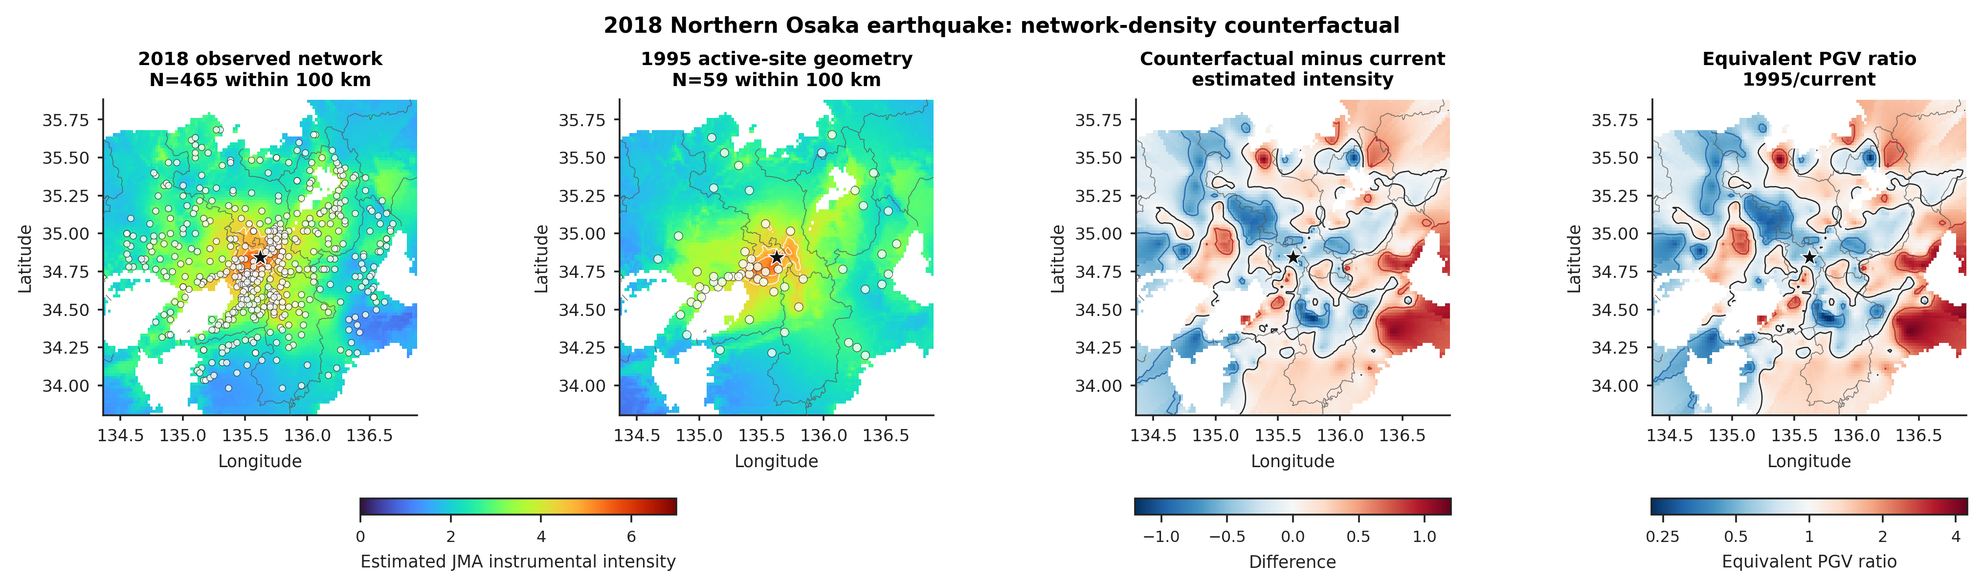
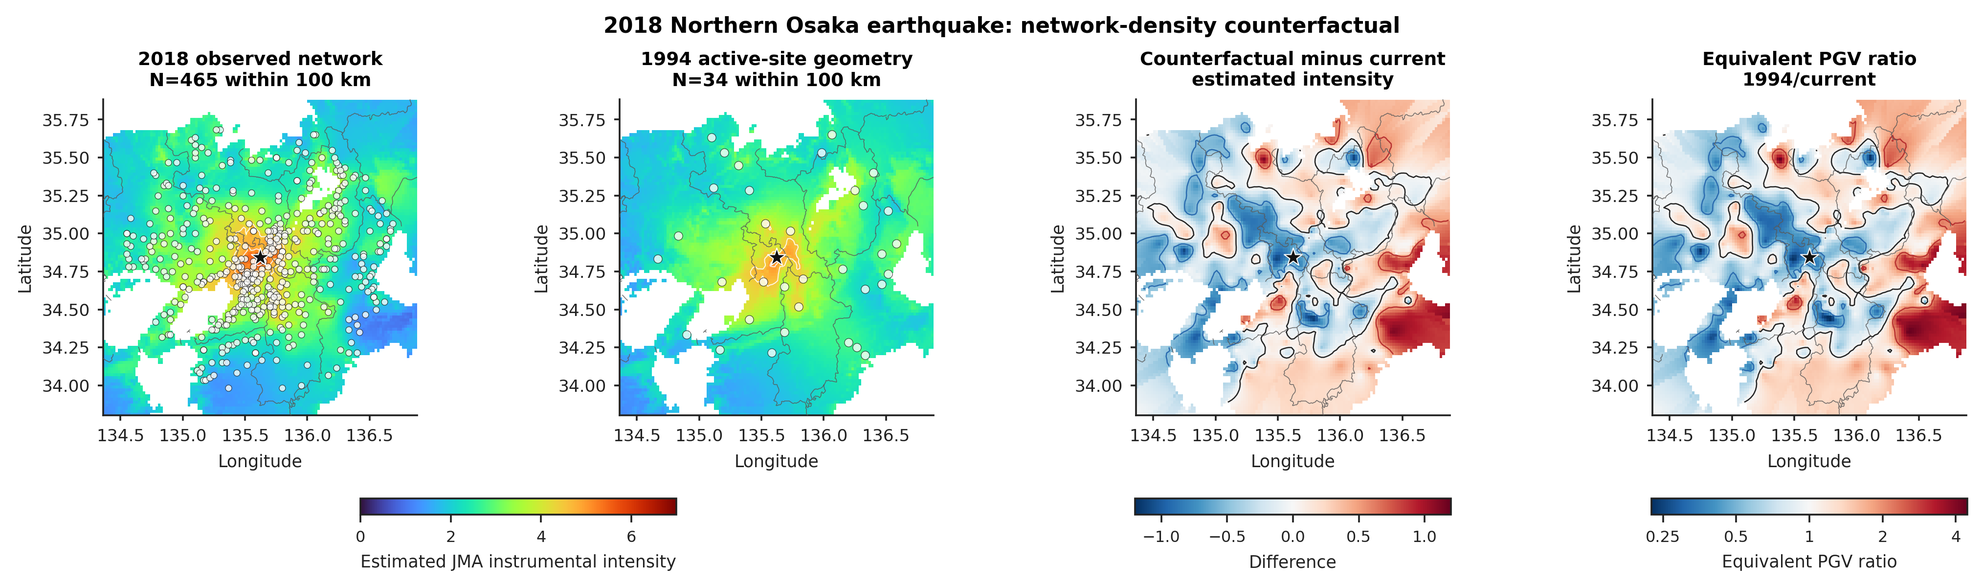
Use 1994 network for Osaka counterfactual

diff --git a/src/analyze_osaka_2018_network_counterfactual.py b/src/analyze_osaka_2018_network_counterfactual.py
@@ -44,8 +44,8 @@ INTENSITY_THRESHOLDS = [4.5, 5.0, 5.5, 6.0, 6.5]
 RADII_KM = [10.0, 20.0, 50.0, 100.0]
 SCENARIO_LABELS = {
     "current_2018_observed": "2018 observed network",
-    "counterfactual_1995_active": "1995 active-site geometry",
-    "strict_1995_code_overlap": "Strict 1995 code overlap",
+    "counterfactual_1994_active": "1994 active-site geometry",
+    "strict_1994_code_overlap": "Strict 1994 code overlap",
 }
 
 
@@ -64,7 +64,7 @@ def parse_args() -> argparse.Namespace:
     parser.add_argument("--manuscript-assets-ja", type=Path, default=DEFAULT_MANUSCRIPT_ASSETS_JA)
     parser.add_argument("--manuscript-assets-en", type=Path, default=DEFAULT_MANUSCRIPT_ASSETS_EN)
     parser.add_argument("--event-id", default="i2018_000842")
-    parser.add_argument("--counterfactual-year", type=int, default=1995)
+    parser.add_argument("--counterfactual-year", type=int, default=1994)
     parser.add_argument("--radius-km", type=float, default=100.0)
     parser.add_argument("--map-radius-km", type=float, default=115.0)
     parser.add_argument("--match-radius-km", type=float, default=10.0)
@@ -461,13 +461,13 @@ def plot_map_comparison(
     import matplotlib.pyplot as plt
 
     current = grids[("current_2018_observed", method)]
-    counter = grids[("counterfactual_1995_active", method)]
+    counter = grids[("counterfactual_1994_active", method)]
     merged = current[["longitude", "latitude", "estimated_surface_intensity"]].merge(
         counter[["longitude", "latitude", "estimated_surface_intensity"]],
         on=["longitude", "latitude"],
-        suffixes=("_current", "_1995"),
+        suffixes=("_current", "_1994"),
     )
-    merged["difference"] = merged["estimated_surface_intensity_1995"] - merged["estimated_surface_intensity_current"]
+    merged["difference"] = merged["estimated_surface_intensity_1994"] - merged["estimated_surface_intensity_current"]
     merged["log10_pgv_ratio"] = merged["difference"] / intensity_to_log10_pgv_coef
     lons, lats, current_arr = pivot_grid(current)
     _, _, counter_arr = pivot_grid(counter)
@@ -479,7 +479,7 @@ def plot_map_comparison(
     image0 = None
     for ax, arr, scenario, title in [
         (axes[0], current_arr, "current_2018_observed", "2018 observed network"),
-        (axes[1], counter_arr, "counterfactual_1995_active", "1995 active-site geometry"),
+        (axes[1], counter_arr, "counterfactual_1994_active", "1994 active-site geometry"),
     ]:
         image0 = ax.pcolormesh(lons, lats, arr, cmap=cmap_intensity, vmin=0.0, vmax=7.0, shading="nearest")
         ax.contour(lons, lats, arr, levels=levels, colors="white", linewidths=0.45, alpha=0.85)
@@ -515,7 +515,7 @@ def plot_map_comparison(
     )
     draw_boundaries(axes[3], region)
     axes[3].scatter([event.longitude], [event.latitude], marker="*", s=72, c="#111111", edgecolors="white", linewidths=0.45, zorder=6)
-    axes[3].set_title("Equivalent PGV ratio\n1995/current", fontsize=8.2)
+    axes[3].set_title("Equivalent PGV ratio\n1994/current", fontsize=8.2)
     setup_map_axis(axes[3], region, event)
     fig.colorbar(image0, ax=axes[:2], location="bottom", fraction=0.05, pad=0.08, label="Estimated JMA instrumental intensity")
     fig.colorbar(image2, ax=axes[2], location="bottom", fraction=0.05, pad=0.08, label="Difference")
@@ -524,7 +524,7 @@ def plot_map_comparison(
     ratio_bar.set_ticks(ratio_ticks)
     ratio_bar.set_ticklabels(["0.25", "0.5", "1", "2", "4"])
     fig.suptitle("2018 Northern Osaka earthquake: network-density counterfactual", fontsize=9.5, fontweight="bold")
-    out = png_dir / "osaka_2018_current_vs_1995_gmpe_kriging_maps.png"
+    out = png_dir / "osaka_2018_current_vs_1994_gmpe_kriging_maps.png"
     fig.savefig(out, bbox_inches="tight")
     plt.close(fig)
     return out
@@ -542,8 +542,8 @@ def plot_summary(
     fig, axes = plt.subplots(1, 3, figsize=(10.2, 3.05), constrained_layout=True)
     colors = {
         "current_2018_observed": "#1f77b4",
-        "counterfactual_1995_active": "#d62728",
-        "strict_1995_code_overlap": "#6b6b6b",
+        "counterfactual_1994_active": "#d62728",
+        "strict_1994_code_overlap": "#6b6b6b",
     }
     for _, row in station_summary.iterrows():
         scenario = row["scenario"]
@@ -557,7 +557,7 @@ def plot_summary(
     axes[0].set_title("Network support")
 
     val = validation[(validation["method"] == method) & (validation["validation_subset"].isin(["all_I>=1", "I>=5.0", "I>=5.5"]))]
-    scenarios = ["current_2018_observed", "counterfactual_1995_active", "strict_1995_code_overlap"]
+    scenarios = ["current_2018_observed", "counterfactual_1994_active", "strict_1994_code_overlap"]
     x = np.arange(len(scenarios))
     width = 0.24
     for offset, subset in zip([-width, 0.0, width], ["all_I>=1", "I>=5.0", "I>=5.5"]):
@@ -567,7 +567,7 @@ def plot_summary(
             values.append(float(hit["class_accuracy"].iloc[0]) if not hit.empty else np.nan)
         axes[1].bar(x + offset, values, width=width, label=subset)
     axes[1].set_xticks(x)
-    axes[1].set_xticklabels(["2018", "1995 geom.", "strict"], rotation=0)
+    axes[1].set_xticklabels(["2018", "1994 geom.", "strict"], rotation=0)
     axes[1].set_ylim(0.0, 1.0)
     axes[1].set_ylabel("Class accuracy", fontsize=7.6)
     axes[1].grid(True, axis="y", color="#dddddd", linewidth=0.55)
@@ -679,7 +679,7 @@ def write_report(
         "",
         "## 推計震度分布の比較",
         "",
-        f"![2018 current network versus 1995 counterfactual]({map_rel})",
+        f"![2018 current network versus 1994 counterfactual]({map_rel})",
         "",
         "震度は線形振幅ではないため，主比較には震度差ΔIを用いる。",
         "右端の等価PGV比は `I = 2.68 + 1.72 log10(PGV)` に基づく参考換算であり，震度値そのものの比ではない。",
@@ -736,10 +736,10 @@ def main() -> None:
     strict = build_strict_overlap(current, args)
     scenarios = {
         "current_2018_observed": current,
-        "counterfactual_1995_active": counterfactual,
+        "counterfactual_1994_active": counterfactual,
     }
     if len(strict) >= 3:
-        scenarios["strict_1995_code_overlap"] = strict
+        scenarios["strict_1994_code_overlap"] = strict
 
     region = region_from_radius(event, args.map_radius_km)
     ground_all = load_ground_grid(args.ground_grid)
@@ -789,7 +789,7 @@ def main() -> None:
             grids[(scenario, method)] = grid
             if not args.no_pygmt_maps and method == args.map_method and scenario in {
                 "current_2018_observed",
-                "counterfactual_1995_active",
+                "counterfactual_1994_active",
             }:
                 draw_map(
                     event,

diff --git a/paper/jma_intensity_network_interpolation_manuscript_ja.md b/paper/jma_intensity_network_interpolation_manuscript_ja.md
@@ -314,23 +314,23 @@ J-SHISのAVS30および地盤増幅率は，明瞭な地域構造を示す。低
 
 ### 4.9 2018年大阪府北部地震に対する観測網密度の反実仮想
 
-近年の内陸地震を1990年代の観測網で観測していた場合，推計震度分布がどの程度変わるかを評価するため，2018年6月18日の大阪府北部の地震（`i2018_000842`，M6.1，深さ13.0 km，最大計測震度5.6）をケーススタディとした。現行網シナリオでは震央100 km以内の2018年実観測465点を用いた。1990年代相当シナリオでは，1995年末に稼働していた観測点位置のうち震央100 km以内の59点へ，2018年実観測値の最近傍値を10 km以内で割り当てた。この反実仮想は観測点密度と幾何の効果を評価する再サンプリングであり，当時の個別観測点の設置条件や機器応答を完全に再現するものではない。さらに，1995年稼働コードが2018年実観測にも現れる21点のみを使う厳密重複シナリオを感度解析として示した。
+近年の内陸地震を1990年代の観測網で観測していた場合，推計震度分布がどの程度変わるかを評価するため，2018年6月18日の大阪府北部の地震（`i2018_000842`，M6.1，深さ13.0 km，最大計測震度5.6）をケーススタディとした。現行網シナリオでは震央100 km以内の2018年実観測465点を用いた。杉山・他（2020）の観測点配置比較に合わせ，1990年代相当シナリオでは，1994年末に稼働していた観測点位置のうち震央100 km以内にあり，2018年実観測値の最近傍値を10 km以内で割り当てられる34点を用いた。この反実仮想は観測点密度と幾何の効果を評価する再サンプリングであり，当時の個別観測点の設置条件や機器応答を完全に再現するものではない。さらに，1994年稼働コードが2018年実観測にも現れる17点のみを使う厳密重複シナリオを感度解析として示した。
 
 **表7. 2018年大阪府北部地震に対する観測網密度反実仮想の主要結果。**
 
 | シナリオ | 100 km内観測点数 | 密度（点/10,000 km2） | 10 km内点数 | 20 km内点数 | 最近接点間距離中央値 km | 全点階級一致率 | 震度5弱以上階級一致率 | 震度5強以上面積 km2 |
 | --- | --- | --- | --- | --- | --- | --- | --- | --- |
 | 2018年実観測網 | 465 | 148.014 | 11 | 54 | 3.560 | 0.877 | 0.643 | 60.626 |
-| 1995年稼働地点配置 | 59 | 18.780 | 2 | 5 | 9.320 | 0.572 | 0.357 | 4.041 |
-| 1995年コード厳密重複 | 21 | 6.685 | 1 | 1 | 19.939 | 0.551 | 0.143 | 8.083 |
+| 1994年稼働地点配置 | 34 | 10.823 | 0 | 0 | 15.323 | 0.544 | 0.036 | 0.000 |
+| 1994年コード厳密重複 | 17 | 5.411 | 0 | 0 | 20.070 | 0.538 | 0.036 | 0.000 |
 
-現行網は震源近傍と大阪平野から京都・奈良盆地にかけての震度勾配を多数の観測点で拘束する。一方，1995年稼働地点配置では震央20 km以内の拘束点が5点に減り，距離減衰式事前場と少数観測点の残差に推定結果が強く依存する。距離減衰式残差クリギングでは，2018年実観測網の最大推計震度は5.82，震度5弱以上面積は464.8 km2，震度5強以上面積は60.6 km2であった。1995年稼働地点配置では，最大推計震度は5.50，震度5弱以上面積は283.0 km2，震度5強以上面積は4.0 km2に縮小した。2018年実観測点で評価した階級一致率も，全点で0.877から0.572へ，震度5弱以上では0.643から0.357へ低下した。ただし，現行網シナリオの検証は訓練観測点を含むため上限的な再現精度である。この非対称性を考慮しても，1990年代相当の密度では強震域の局所勾配と震度5強以上の面的広がりを十分拘束できないことが明瞭である。震度は線形振幅ではないため，2つの推計震度分布の比較には震度値の比ではなく差分ΔIを主指標として用いた。参考として，`I = 2.68 + 1.72 log10(PGV)`に基づく等価PGV比も図示した。
+現行網は震源近傍と大阪平野から京都・奈良盆地にかけての震度勾配を多数の観測点で拘束する。一方，1994年稼働地点配置では震央20 km以内に利用可能な疑似観測点が存在せず，距離減衰式事前場と少数観測点の残差に推定結果が強く依存する。距離減衰式残差クリギングでは，2018年実観測網の最大推計震度は5.82，震度5弱以上面積は464.8 km2，震度5強以上面積は60.6 km2であった。1994年稼働地点配置では，最大推計震度は5.16，震度5弱以上面積は44.5 km2，震度5強以上面積は0.0 km2に縮小した。2018年実観測点で評価した階級一致率も，全点で0.877から0.544へ，震度5弱以上では0.643から0.036へ低下した。ただし，現行網シナリオの検証は訓練観測点を含むため上限的な再現精度である。この非対称性を考慮しても，1990年代前半の密度では強震域の局所勾配と震度5強以上の面的広がりを十分拘束できないことが明瞭である。震度は線形振幅ではないため，2つの推計震度分布の比較には震度値の比ではなく差分ΔIを主指標として用いた。参考として，`I = 2.68 + 1.72 log10(PGV)`に基づく等価PGV比も図示した。
 
-![図11. 2018年大阪府北部地震に対する現行網と1995年相当網の推計震度分布比較。](assets_ja/fig11_osaka_2018_counterfactual_maps.png)
+![図11. 2018年大阪府北部地震に対する現行網と1994年相当網の推計震度分布比較。](assets_ja/fig11_osaka_2018_counterfactual_maps.png)
 
 ![図12. 2018年大阪府北部地震に対する観測点支持，階級一致率，推計面積の比較。](assets_ja/fig12_osaka_2018_counterfactual_summary.png)
 
-*図11-12. 2018年大阪府北部地震の反実仮想解析。図11では，震度分布，震度差ΔI，および参考の等価PGV比を並べて示す。1995年相当網は観測点配置の効果を評価するための再サンプリングであり，当時の公式推計震度分布を再現したものではない。*
+*図11-12. 2018年大阪府北部地震の反実仮想解析。図11では，震度分布，震度差ΔI，および参考の等価PGV比を並べて示す。1994年相当網は観測点配置の効果を評価するための再サンプリングであり，当時の公式推計震度分布を再現したものではない。*
 
 ## 5. 議論
 
@@ -379,7 +379,7 @@ J-SHISのAVS30および地盤増幅率は，明瞭な地域構造を示す。低
 5. 完全一致率80%および90%は，試験した最大有効密度71.58点/10,000 km2の範囲では安定的に到達しなかった。現行手法では高密度側でも完全一致率が約70%で飽和するため，80%以上を目標にする場合は，観測点密度だけでなく震源・伝播・地盤モデルの改善が必要である。
 6. 70%到達密度では，IDW，平滑化クリギング，距離減衰式残差クリギングはいずれも，距離減衰式単独に対して完全一致率を約25ポイント改善し，RMSEを約半分に低減した。
 7. 高密度条件でも地域差は残る。したがって，震度分布の科学的解釈および観測網設計では，観測点密度，震源幾何，地盤増幅の空間変動を同時に扱う必要がある。
-8. 2018年大阪府北部地震を1995年末の観測点配置へ再サンプリングすると，震央100 km以内の観測点は465点から59点へ減少し，距離減衰式残差クリギングの全点階級一致率は0.877から0.572へ低下した。震度5強以上の推計面積は60.6 km2から4.0 km2へ縮小し，近年地震の面的震度分布を過去観測網にも同等品質で外挿することはできない。
+8. 2018年大阪府北部地震を1994年末の観測点配置へ再サンプリングすると，震央100 km以内の観測点は465点から34点へ減少し，震央20 km以内に利用可能な疑似観測点が存在しない。距離減衰式残差クリギングの全点階級一致率は0.877から0.544へ，震度5弱以上では0.643から0.036へ低下した。震度5強以上の推計面積は60.6 km2から0.0 km2へ縮小し，近年地震の面的震度分布を過去観測網にも同等品質で外挿することはできない。
 
 ## 謝辞
 

diff --git a/paper/jma_intensity_network_interpolation_manuscript.md b/paper/jma_intensity_network_interpolation_manuscript.md
@@ -304,23 +304,23 @@ The 2016 Kumamoto earthquake sequence illustrates the qualitative difference bet
 
 ### 4.9 Counterfactual network density for the 2018 northern Osaka earthquake
 
-To illustrate how a recent inland earthquake would have been mapped before the rapid network expansion, we analyzed the 18 June 2018 northern Osaka earthquake (`i2018_000842`; M6.1; depth 13.0 km; maximum measured intensity 5.6). The current-network scenario used 465 actual 2018 observations within 100 km of the epicenter. The pre-expansion counterfactual used the 59 station locations that were active at the end of 1995 within the same radius, assigning each location the nearest 2018 observed intensity within 10 km. This resampling isolates the effect of network density and geometry; it does not reproduce the site response, instrumentation, or operational processing of the historical stations. A stricter sensitivity case used only the 21 station codes that were active in 1995 and also appeared in the 2018 observations.
+To illustrate how a recent inland earthquake would have been mapped before the rapid network expansion, we analyzed the 18 June 2018 northern Osaka earthquake (`i2018_000842`; M6.1; depth 13.0 km; maximum measured intensity 5.6). The current-network scenario used 465 actual 2018 observations within 100 km of the epicenter. Following the historical comparison in Sugiyama et al. (2020), the pre-expansion counterfactual used the 34 station locations that were active at the end of 1994 within the same radius and could be assigned the nearest 2018 observed intensity within 10 km. This resampling isolates the effect of network density and geometry; it does not reproduce the site response, instrumentation, or operational processing of the historical stations. A stricter sensitivity case used only the 17 station codes that were active in 1994 and also appeared in the 2018 observations.
 
 **Table 7. Key results for the 2018 northern Osaka network-density counterfactual.**
 
 | Scenario | Stations within 100 km | Density (stations/10,000 km2) | Stations within 10 km | Stations within 20 km | Median station NN km | Exact class accuracy, all | Exact class accuracy, I>=5.0 | I>=5.5 footprint km2 |
 | --- | --- | --- | --- | --- | --- | --- | --- | --- |
 | 2018 observed network | 465 | 148.014 | 11 | 54 | 3.560 | 0.877 | 0.643 | 60.626 |
-| 1995 active-site geometry | 59 | 18.780 | 2 | 5 | 9.320 | 0.572 | 0.357 | 4.041 |
-| Strict 1995 code overlap | 21 | 6.685 | 1 | 1 | 19.939 | 0.551 | 0.143 | 8.083 |
+| 1994 active-site geometry | 34 | 10.823 | 0 | 0 | 15.323 | 0.544 | 0.036 | 0.000 |
+| Strict 1994 code overlap | 17 | 5.411 | 0 | 0 | 20.070 | 0.538 | 0.036 | 0.000 |
 
-The current network directly constrains the near-source gradients and the spatial transition from the Osaka Plain to the Kyoto and Nara basins. In contrast, the 1995 active-site geometry leaves only five stations within 20 km of the epicenter, making the map more dependent on the GMPE prior and a small set of residual constraints. With GMPE-residual kriging, the current network gives a maximum estimated intensity of 5.82, an I>=5.0 area of 464.8 km2, and an I>=5.5 area of 60.6 km2. Under the 1995 geometry, these decrease to 5.50, 283.0 km2, and 4.0 km2, respectively. Exact class accuracy at the 2018 observation sites decreases from 0.877 to 0.572 for all stations and from 0.643 to 0.357 for stations with I>=5.0. The current-network evaluation is an upper-bound reconstruction because the validation set includes training observations; even with this asymmetry, the counterfactual demonstrates that the pre-expansion geometry cannot stably constrain the localized high-intensity footprint. Because seismic intensity is not a linear amplitude, the primary comparison metric is the intensity difference ΔI rather than the ratio of intensity values. As a supplementary physical scale, Figure 11 also shows the equivalent PGV ratio implied by `I = 2.68 + 1.72 log10(PGV)`.
+The current network directly constrains the near-source gradients and the spatial transition from the Osaka Plain to the Kyoto and Nara basins. In contrast, the 1994 active-site geometry leaves no usable pseudo-observation within 20 km of the epicenter, making the map strongly dependent on the GMPE prior and a sparse set of residual constraints. With GMPE-residual kriging, the current network gives a maximum estimated intensity of 5.82, an I>=5.0 area of 464.8 km2, and an I>=5.5 area of 60.6 km2. Under the 1994 geometry, these decrease to 5.16, 44.5 km2, and 0.0 km2, respectively. Exact class accuracy at the 2018 observation sites decreases from 0.877 to 0.544 for all stations and from 0.643 to 0.036 for stations with I>=5.0. The current-network evaluation is an upper-bound reconstruction because the validation set includes training observations; even with this asymmetry, the counterfactual demonstrates that the pre-expansion geometry cannot stably constrain the localized high-intensity footprint. Because seismic intensity is not a linear amplitude, the primary comparison metric is the intensity difference ΔI rather than the ratio of intensity values. As a supplementary physical scale, Figure 11 also shows the equivalent PGV ratio implied by `I = 2.68 + 1.72 log10(PGV)`.
 
-![Figure 11. Estimated intensity maps for the 2018 northern Osaka earthquake under the current and 1995-like networks.](assets_en/fig11_osaka_2018_counterfactual_maps.png)
+![Figure 11. Estimated intensity maps for the 2018 northern Osaka earthquake under the current and 1994-like networks.](assets_en/fig11_osaka_2018_counterfactual_maps.png)
 
 ![Figure 12. Station support, class accuracy, and footprint area for the 2018 northern Osaka counterfactual.](assets_en/fig12_osaka_2018_counterfactual_summary.png)
 
-*Figures 11-12. Counterfactual analysis for the 2018 northern Osaka earthquake. Figure 11 places the two estimated intensity fields, the intensity difference ΔI, and the supplementary equivalent PGV ratio side by side. The 1995-like network is a resampling experiment for station geometry and should not be interpreted as a reproduction of an official historical JMA map.*
+*Figures 11-12. Counterfactual analysis for the 2018 northern Osaka earthquake. Figure 11 places the two estimated intensity fields, the intensity difference ΔI, and the supplementary equivalent PGV ratio side by side. The 1994-like network is a resampling experiment for station geometry and should not be interpreted as a reproduction of an official historical JMA map.*
 
 ## 5. Discussion
 
@@ -361,7 +361,7 @@ This study has several limitations that should be addressed before journal submi
 5. The 80% and 90% exact-class criteria are not stably reached within the maximum tested effective density of 71.58 stations per 10,000 km2. Under the current workflow, high-density accuracy saturates near 70%, implying that source, path, site, and uncertainty modeling must improve before 80% exact-class agreement can be expected.
 6. At the 70% threshold density, IDW, smoothing kriging, and GMPE-residual kriging improve exact class accuracy by about 25 percentage points and reduce RMSE by about one half relative to attenuation-only prediction.
 7. Regional differences remain even at high density, indicating that station density, source geometry, and surface-site variability must be treated jointly in both scientific interpretation and operational mapping.
-8. For the 2018 northern Osaka earthquake, resampling the network to the 1995 active-site geometry reduces the 100-km station count from 465 to 59 and lowers GMPE-residual-kriging exact class accuracy from 0.877 to 0.572 at the 2018 observation sites. The estimated I>=5.5 area shrinks from 60.6 km2 to 4.0 km2, demonstrating that modern mapped intensity fields cannot be extrapolated to pre-expansion networks at equivalent quality.
+8. For the 2018 northern Osaka earthquake, resampling the network to the 1994 active-site geometry reduces the 100-km station count from 465 to 34 and leaves no usable pseudo-observation within 20 km of the epicenter. GMPE-residual-kriging exact class accuracy decreases from 0.877 to 0.544 at all 2018 observation sites and from 0.643 to 0.036 for sites with I>=5.0. The estimated I>=5.5 area shrinks from 60.6 km2 to 0.0 km2, demonstrating that modern mapped intensity fields cannot be extrapolated to pre-expansion networks at equivalent quality.
 
 ## Acknowledgments
 

diff --git a/docs/reports/osaka_2018_network_counterfactual_report.md b/docs/reports/osaka_2018_network_counterfactual_report.md
@@ -2,7 +2,7 @@
 
 - 対象地震: `i2018_000842` (2018-06-18 07:58:34.14, M6.1, depth 13.0 km)
 - 比較範囲: 震央から 100 km以内
-- 反実仮想: 1995年末時点で稼働していた観測点位置に，2018年実観測の最近傍値を 10 km以内で割り当てた。
+- 反実仮想: 1994年末時点で稼働していた観測点位置に，2018年実観測の最近傍値を 10 km以内で割り当てた。
 
 この分析は，1990年代相当の観測点密度・幾何が同じ地震の推計震度分布をどの程度変えるかを評価するための再サンプリングである。
 したがって，当時の観測点固有の設置条件・機器特性・地盤応答を完全再現するものではない。
@@ -12,12 +12,12 @@
 | scenario | n_station_used | density_per_10000km2 | station_count_within_10km | station_count_within_20km | station_count_within_50km | station_count_within_100km | nearest_epicentral_distance_km | station_nn_median_km | max_observed_intensity |
 | --- | --- | --- | --- | --- | --- | --- | --- | --- | --- |
 | current_2018_observed | 465 | 148.014 | 11 | 54 | 206 | 465 | 0.778 | 3.560 | 5.600 |
-| counterfactual_1995_active | 59 | 18.780 | 2 | 5 | 27 | 59 | 0.778 | 9.320 | 5.300 |
-| strict_1995_code_overlap | 21 | 6.685 | 1 | 1 | 7 | 21 | 0.778 | 19.939 | 5.400 |
+| counterfactual_1994_active | 34 | 10.823 | 0 | 0 | 9 | 34 | 20.310 | 15.323 | 4.500 |
+| strict_1994_code_overlap | 17 | 5.411 | 0 | 0 | 5 | 17 | 20.310 | 20.070 | 4.500 |
 
 ## 推計震度分布の比較
 
-![2018 current network versus 1995 counterfactual](../../paper/assets_ja/fig11_osaka_2018_counterfactual_maps.png)
+![2018 current network versus 1994 counterfactual](../../paper/assets_ja/fig11_osaka_2018_counterfactual_maps.png)
 
 震度は線形振幅ではないため，主比較には震度差ΔIを用いる。
 右端の等価PGV比は `I = 2.68 + 1.72 log10(PGV)` に基づく参考換算であり，震度値そのものの比ではない。
@@ -31,24 +31,24 @@
 | current_2018_observed | all_I>=1 | 465 | 0.877 | 1.000 | 0.103 | 0.150 | 0.002 | 0.082 | 0.041 |
 | current_2018_observed | I>=5.0 | 28 | 0.643 | 1.000 | 0.132 | 0.181 | -0.061 | 0.286 | 0.071 |
 | current_2018_observed | I>=5.5 | 5 | 0.400 | 1.000 | 0.152 | 0.209 | -0.152 | 0.600 | 0.000 |
-| counterfactual_1995_active | all_I>=1 | 465 | 0.572 | 0.978 | 0.364 | 0.463 | -0.027 | 0.260 | 0.168 |
-| counterfactual_1995_active | I>=5.0 | 28 | 0.357 | 0.786 | 0.350 | 0.434 | -0.316 | 0.643 | 0.000 |
-| counterfactual_1995_active | I>=5.5 | 5 | 0.000 | 0.400 | 0.525 | 0.555 | -0.525 | 1.000 | 0.000 |
-| strict_1995_code_overlap | all_I>=1 | 465 | 0.551 | 0.978 | 0.417 | 0.515 | -0.090 | 0.295 | 0.155 |
-| strict_1995_code_overlap | I>=5.0 | 28 | 0.143 | 0.786 | 0.441 | 0.518 | -0.428 | 0.857 | 0.000 |
-| strict_1995_code_overlap | I>=5.5 | 5 | 0.000 | 0.400 | 0.639 | 0.671 | -0.639 | 1.000 | 0.000 |
+| counterfactual_1994_active | all_I>=1 | 465 | 0.544 | 0.963 | 0.395 | 0.493 | -0.085 | 0.316 | 0.140 |
+| counterfactual_1994_active | I>=5.0 | 28 | 0.036 | 0.536 | 0.633 | 0.693 | -0.633 | 0.964 | 0.000 |
+| counterfactual_1994_active | I>=5.5 | 5 | 0.000 | 0.000 | 0.936 | 0.952 | -0.936 | 1.000 | 0.000 |
+| strict_1994_code_overlap | all_I>=1 | 465 | 0.538 | 0.959 | 0.448 | 0.545 | -0.167 | 0.342 | 0.120 |
+| strict_1994_code_overlap | I>=5.0 | 28 | 0.036 | 0.536 | 0.649 | 0.704 | -0.649 | 0.964 | 0.000 |
+| strict_1994_code_overlap | I>=5.5 | 5 | 0.000 | 0.000 | 0.921 | 0.936 | -0.921 | 1.000 | 0.000 |
 
 ## 面積指標
 
 | scenario | max_estimated_surface_intensity | area_ge_5p0_km2 | area_ge_5p5_km2 | area_ge_6p0_km2 | area_ge_6p5_km2 |
 | --- | --- | --- | --- | --- | --- |
 | current_2018_observed | 5.821 | 464.775 | 60.626 | 0.000 | 0.000 |
-| counterfactual_1995_active | 5.505 | 283.026 | 4.041 | 0.000 | 0.000 |
-| strict_1995_code_overlap | 5.547 | 133.384 | 8.083 | 0.000 | 0.000 |
+| counterfactual_1994_active | 5.163 | 44.463 | 0.000 | 0.000 | 0.000 |
+| strict_1994_code_overlap | 5.180 | 44.463 | 0.000 | 0.000 | 0.000 |
 
 ## 原稿に入れるべき解釈
 
 2018年の実観測網では，震央100 km以内に多数の観測点があり，震源近傍から大阪平野・京都盆地・奈良盆地にかけての局所的な震度勾配を直接拘束できる。
-一方，1995年末の配置へ落とすと，近傍観測点数は大幅に減少し，推計震度分布は距離減衰式事前場と少数の残差観測に強く依存する。
+一方，1994年末の配置へ落とすと，近傍観測点数は大幅に減少し，推計震度分布は距離減衰式事前場と少数の残差観測に強く依存する。
 この差は最大震度域そのものだけでなく，震度5弱以上・5強以上の面積評価にも現れる。
 したがって，近年の地震被害域の面的把握を過去観測網へ外挿する場合，観測点密度の増加前後で同じ推計震度分布品質を仮定してはいけない。

diff --git a/README.md b/README.md
@@ -20,7 +20,7 @@ This repository contains a manuscript, figures, analysis scripts, and lightweigh
 - Treating zero retained stations as attenuation-only prediction gives an exact JMA intensity-class hit rate of 0.455 for the 22 target events with maximum intensity 6 upper or 7.
 - Observation-constrained interpolation reaches about 70% exact class agreement only at roughly 57.7 retained stations per 10,000 km2.
 - The 80% and 90% exact-class criteria are not reached within the tested density range, implying that density increase alone is insufficient under the present workflow.
-- A counterfactual analysis of the 2018 northern Osaka earthquake shows that resampling the modern network to the 1995 active-site geometry reduces the 100-km station count from 465 to 59 and lowers exact class accuracy from 0.877 to 0.572.
+- A counterfactual analysis of the 2018 northern Osaka earthquake shows that resampling the modern network to the 1994 active-site geometry reduces the 100-km station count from 465 to 34 and lowers exact class accuracy from 0.877 to 0.544.
 
 ## Repository Layout
 
